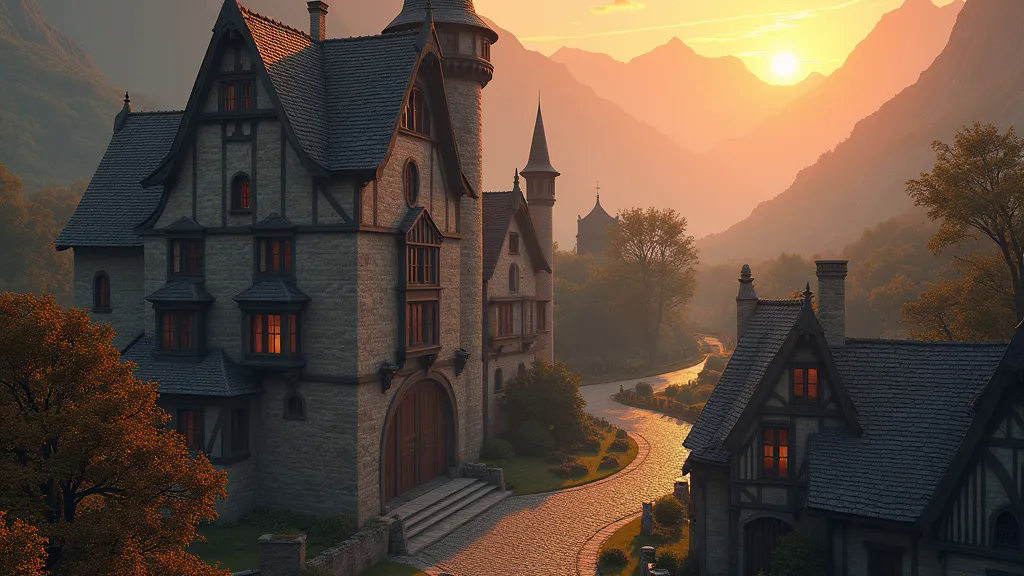
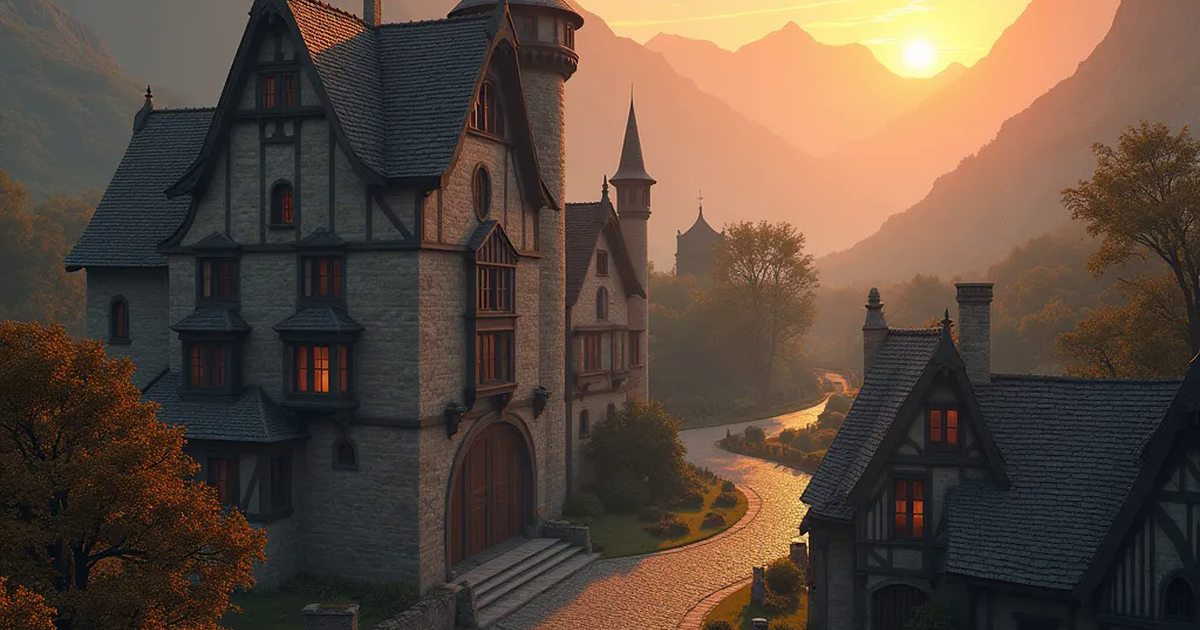
Open Graph : image 1200 x 630 et metadonnees completes

diff --git a/index.html b/index.html
@@ -10,13 +10,17 @@
     <meta property="og:type" content="website" />
     <meta property="og:title" content="Phandaline — RPG 3D médiéval-fantastique" />
     <meta property="og:description" content="Explorez le village de Phandaline, parlez aux PNJ, accomplissez des quêtes et combattez des ennemis dans ce RPG 3D en monde ouvert." />
-    <meta property="og:image" content="https://games.hylst.fr/phandaline/og-image.png" />
+    <meta property="og:image" content="https://games.hylst.fr/phandaline/og-image.png?v=2" />
+    <meta property="og:image:type" content="image/png" />
+    <meta property="og:image:width" content="1200" />
+    <meta property="og:image:height" content="630" />
+    <meta property="og:image:alt" content="Phandaline" />
     <meta property="og:url" content="https://games.hylst.fr/phandaline/" />
     <meta property="og:site_name" content="Hylst.Games" />
     <meta name="twitter:card" content="summary_large_image" />
     <meta name="twitter:title" content="Phandaline — RPG 3D médiéval-fantastique" />
     <meta name="twitter:description" content="Explorez le village de Phandaline, parlez aux PNJ, accomplissez des quêtes et combattez des ennemis dans ce RPG 3D en monde ouvert." />
-    <meta name="twitter:image" content="https://games.hylst.fr/phandaline/og-image.png" />
+    <meta name="twitter:image" content="https://games.hylst.fr/phandaline/og-image.png?v=2" />
     <meta name="robots" content="index, follow" />
     <link rel="canonical" href="https://games.hylst.fr/phandaline/" />
     <link rel="icon" type="image/webp" href="favicon.webp" />
